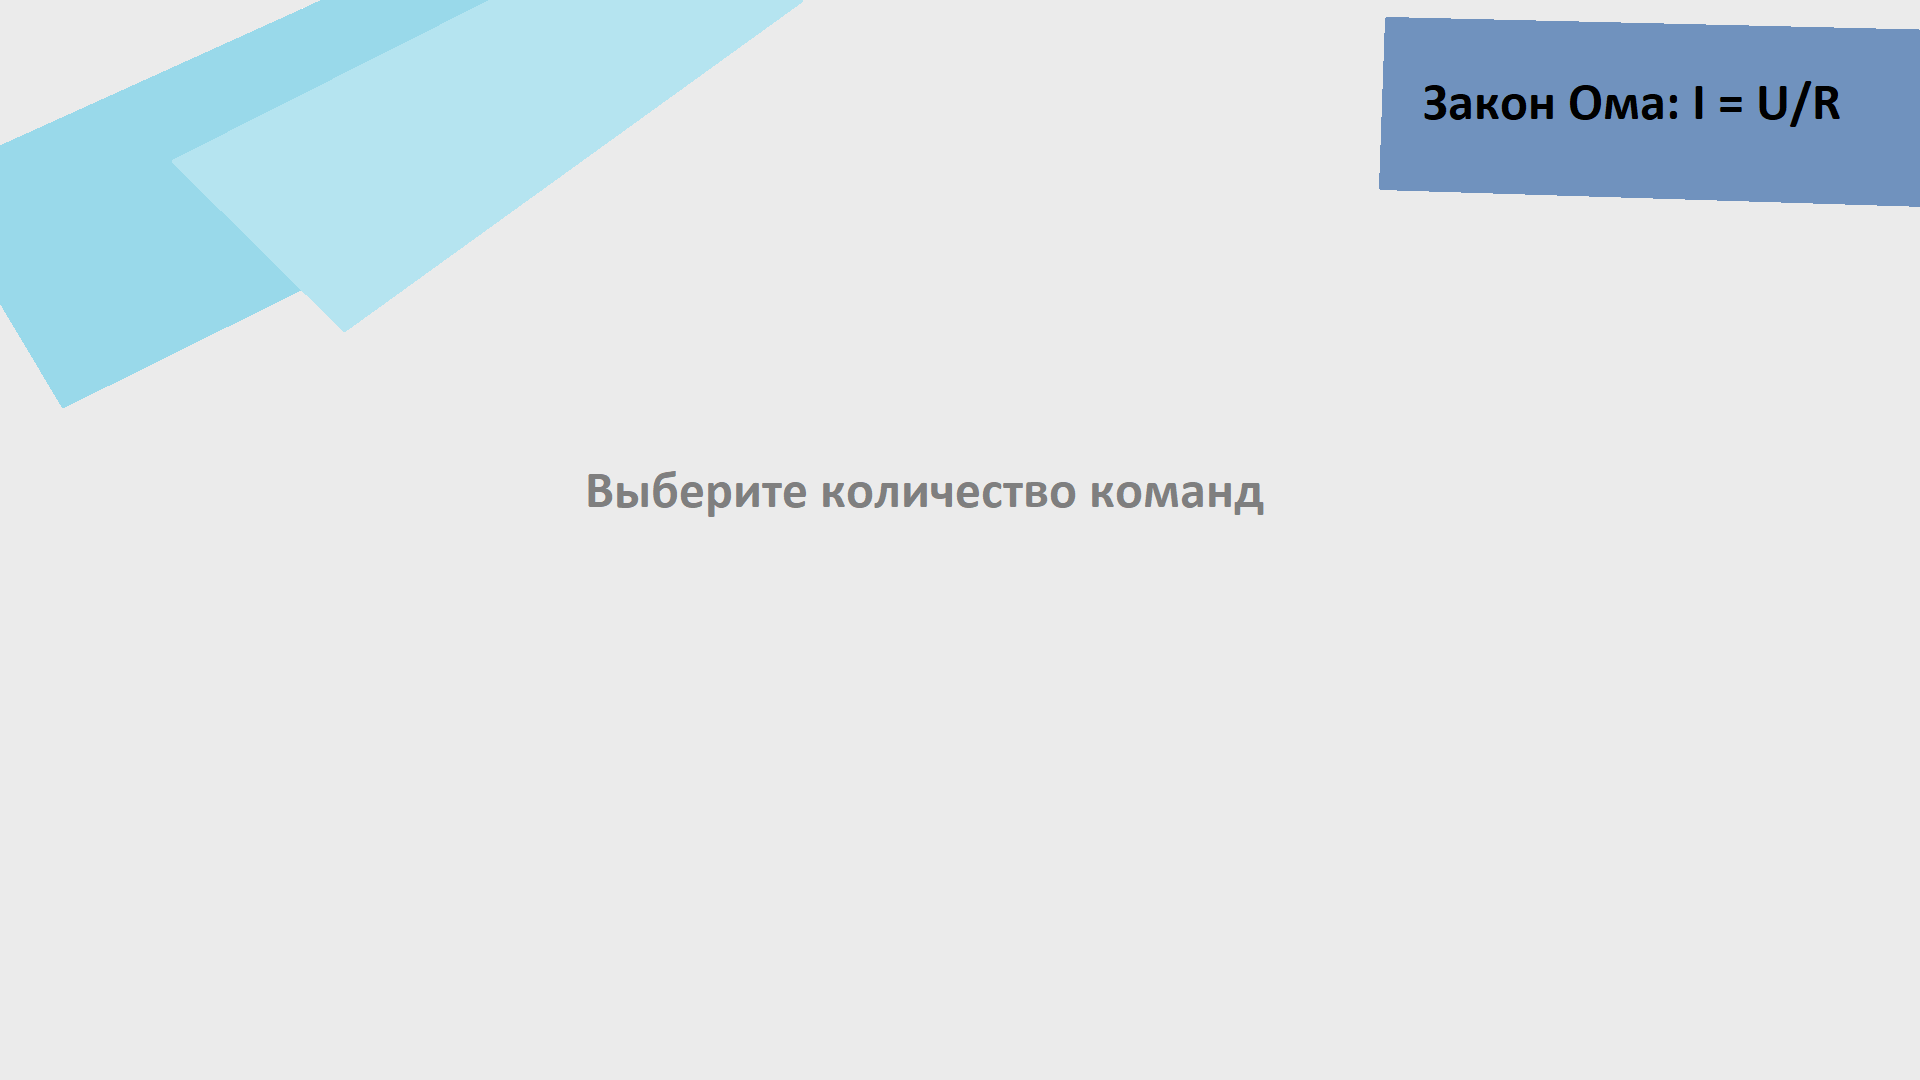
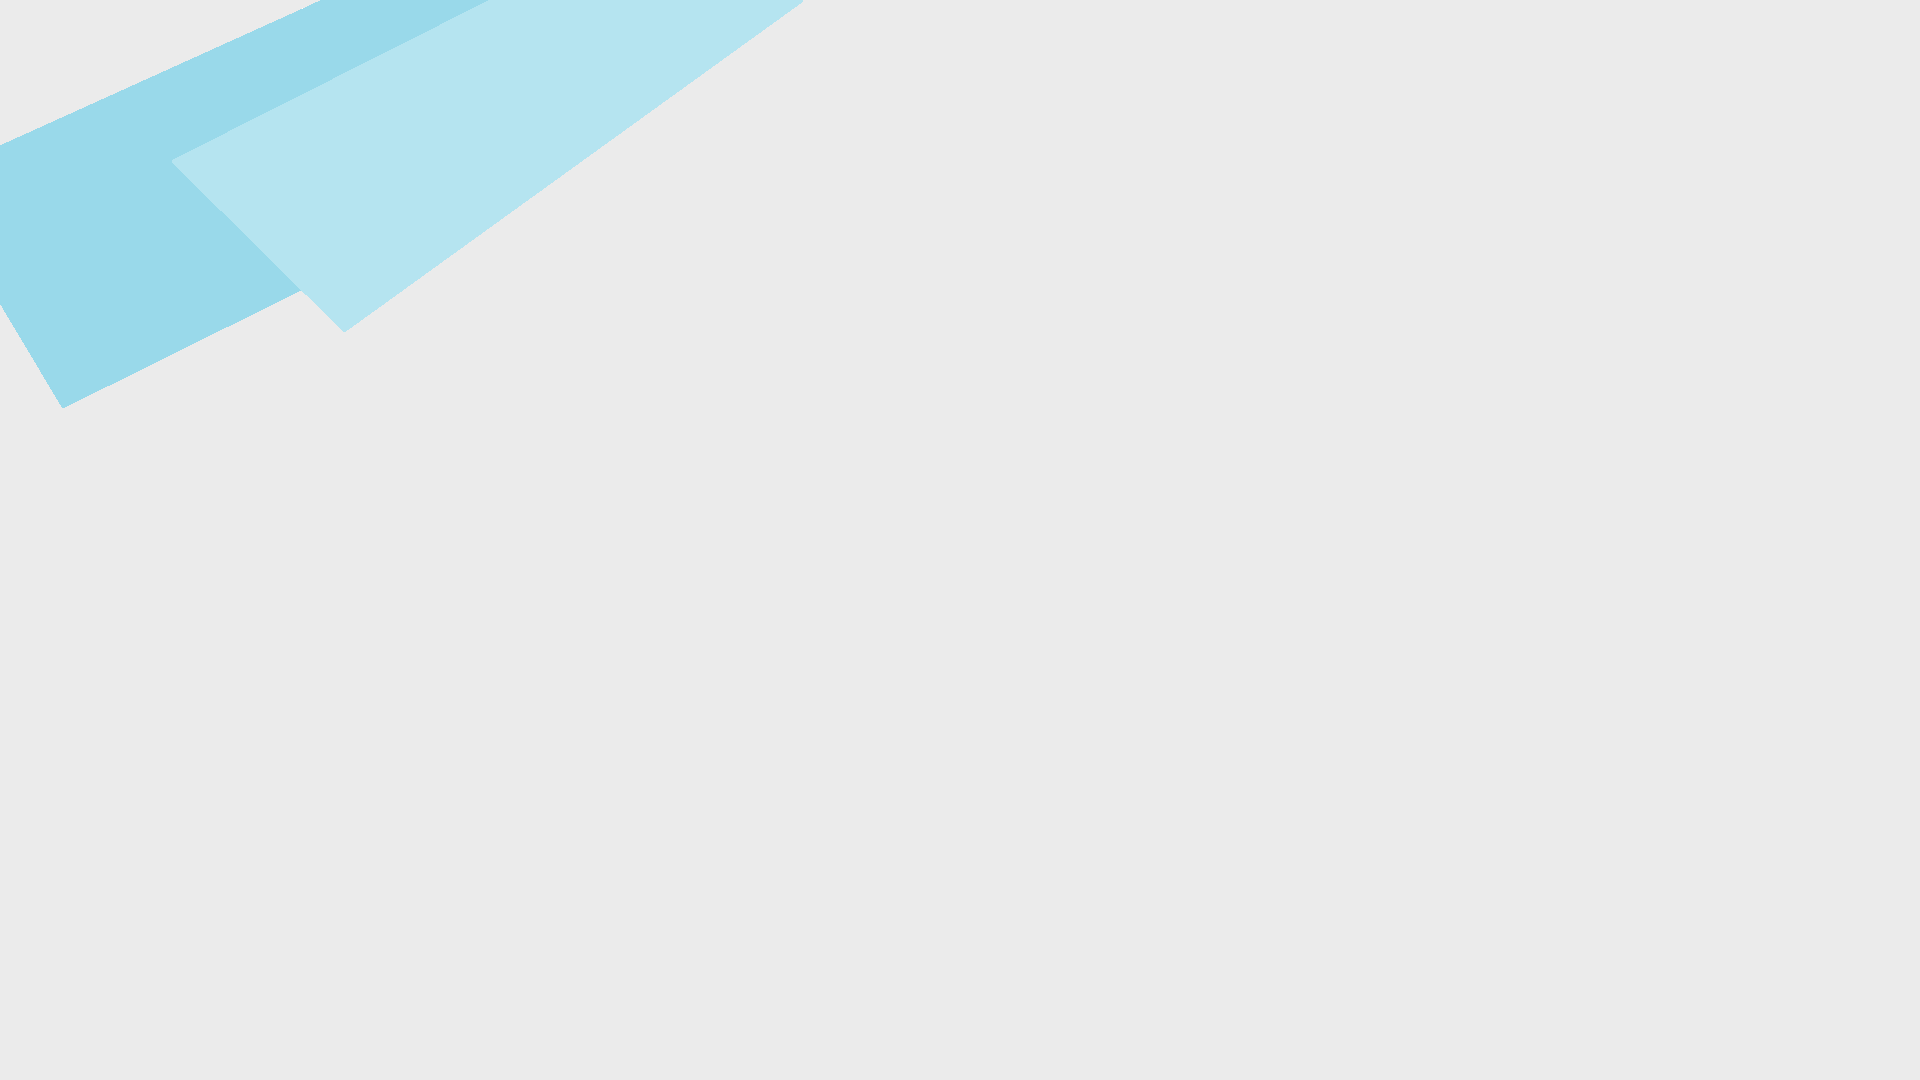
group count

Changed region(s): [[0.7188, 0.0, 1.0, 0.2139], [0.2812, 0.4278, 0.6562, 0.4889]]

diff --git a/first_file.py b/first_file.py
@@ -12,6 +12,26 @@ menu_image_real = pygame.image.load("main_menu.png")
 game_running = False
 menu_image = pygame.transform.scale(menu_image_real, screen_size)
 
+font1 = pygame.font.Font(None, round(screen_size[1] / 28))
+text1 = font1.render("Выберите количество команд", 1, (15, 15, 10))
+text1_set_dot = (screen_size[0] // 2 - text1.get_size()[0] // 2, screen_size[1] // 2 - text1.get_size()[1] // 2)
+
+button_text = []
+button_text_set_dots = []
+font2 = pygame.font.Font(None, round(screen_size[1] / 14))
+for group_size in range(7):
+    if group_size < 3:
+        button_text.append(font2.render(str(group_size + 2) + " команды", 1, (5, 5, 5)))
+        button_text_set_dots.append((screen_size[0] * group_size // 3 + screen_size[0] // 6 -
+                                     button_text[-1].get_size()[0] // 2, screen_size[1] - text1_set_dot[1] * 3 // 4 -
+                                     button_text[-1].get_size()[1] // 2))
+    else:
+        button_text.append(font2.render(str(group_size + 2) + " команд", 1, (5, 5, 5)))
+        group_size -= 3
+        button_text_set_dots.append((screen_size[0] * group_size // 4 + screen_size[0] // 8 -
+                                     button_text[-1].get_size()[0] // 2, screen_size[1] - text1_set_dot[1] // 4 -
+                                     button_text[-1].get_size()[1] // 2))
+
 while running:
     clock.tick(FPS)
     for event in pygame.event.get():
@@ -24,9 +44,32 @@ while running:
             screen_size = (max(500, event.size[0]), max(300, event.size[1]))
             window = pygame.display.set_mode(screen_size, pygame.RESIZABLE)
             menu_image = pygame.transform.scale(menu_image_real, screen_size)
+            font1 = pygame.font.Font(None, round(screen_size[1] / 28))
+            text1 = font1.render("Выберите количество команд", 1, (15, 15, 10))
+            text1_set_dot = (
+            screen_size[0] // 2 - text1.get_size()[0] // 2, screen_size[1] // 2 - text1.get_size()[1] // 2)
+            button_text = []
+            button_text_set_dots = []
+            font2 = pygame.font.Font(None, round(screen_size[1] / 14))
+            for group_size in range(7):
+                button_text.append(font2.render(str(group_size + 2) + " команд", 1, (5, 5, 5)))
+                if group_size < 4:
+                    button_text_set_dots.append((screen_size[0] * group_size // 4 + screen_size[0] // 8 -
+                                                 button_text[-1].get_size()[0] // 2,
+                                                 screen_size[1] - text1_set_dot[1] * 3 // 4 -
+                                                 button_text[-1].get_size()[1] // 2))
+                else:
+                    group_size -= 4
+                    button_text_set_dots.append((screen_size[0] * group_size // 3 + screen_size[0] // 6 -
+                                                 button_text[-1].get_size()[0] // 2,
+                                                 screen_size[1] - text1_set_dot[1] // 4 -
+                                                 button_text[-1].get_size()[1] // 2))
     if game_running:
         pass
     else:
         window.blit(menu_image, (0, 0))
+        window.blit(text1, text1_set_dot)
+        for button_number in range(len(button_text)):
+            window.blit(button_text[button_number], button_text_set_dots[button_number])
     pygame.display.flip()
 pygame.quit()
